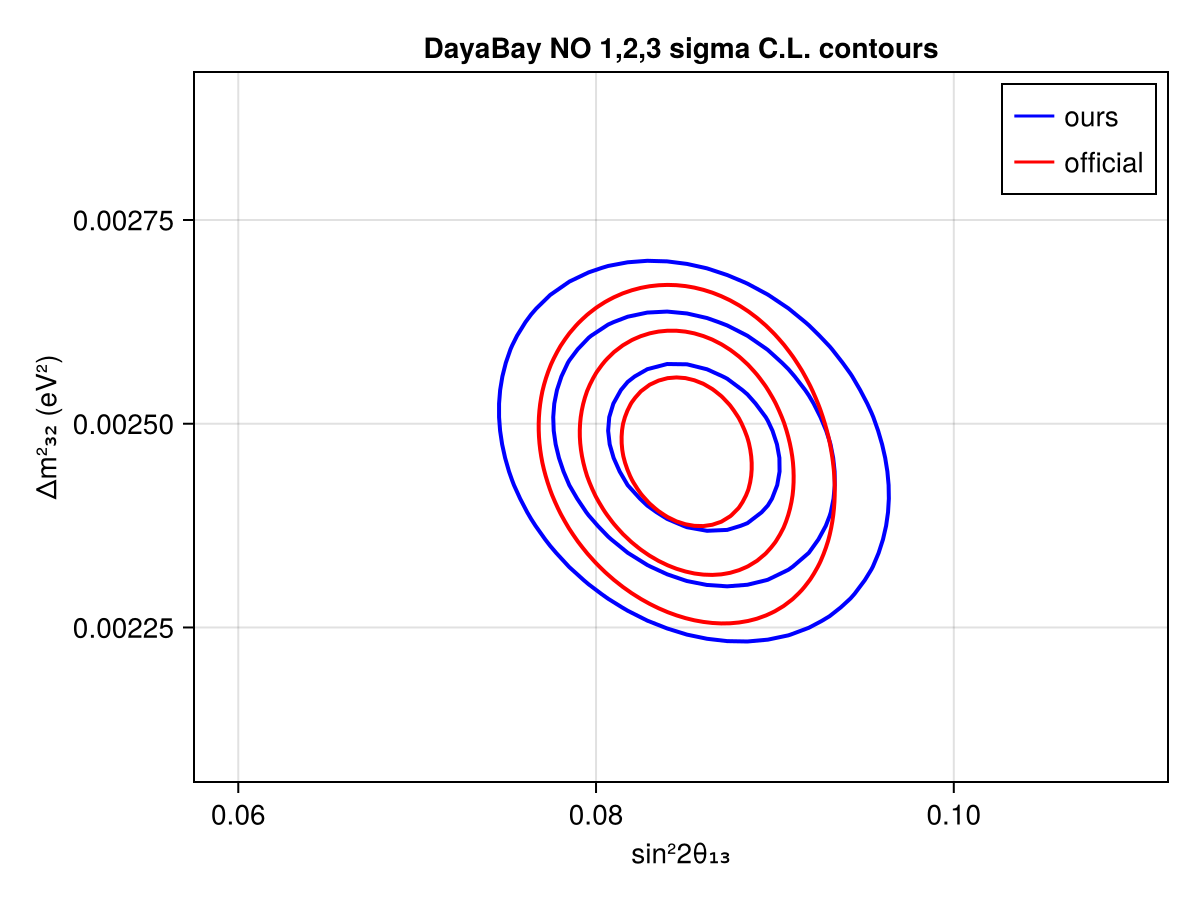
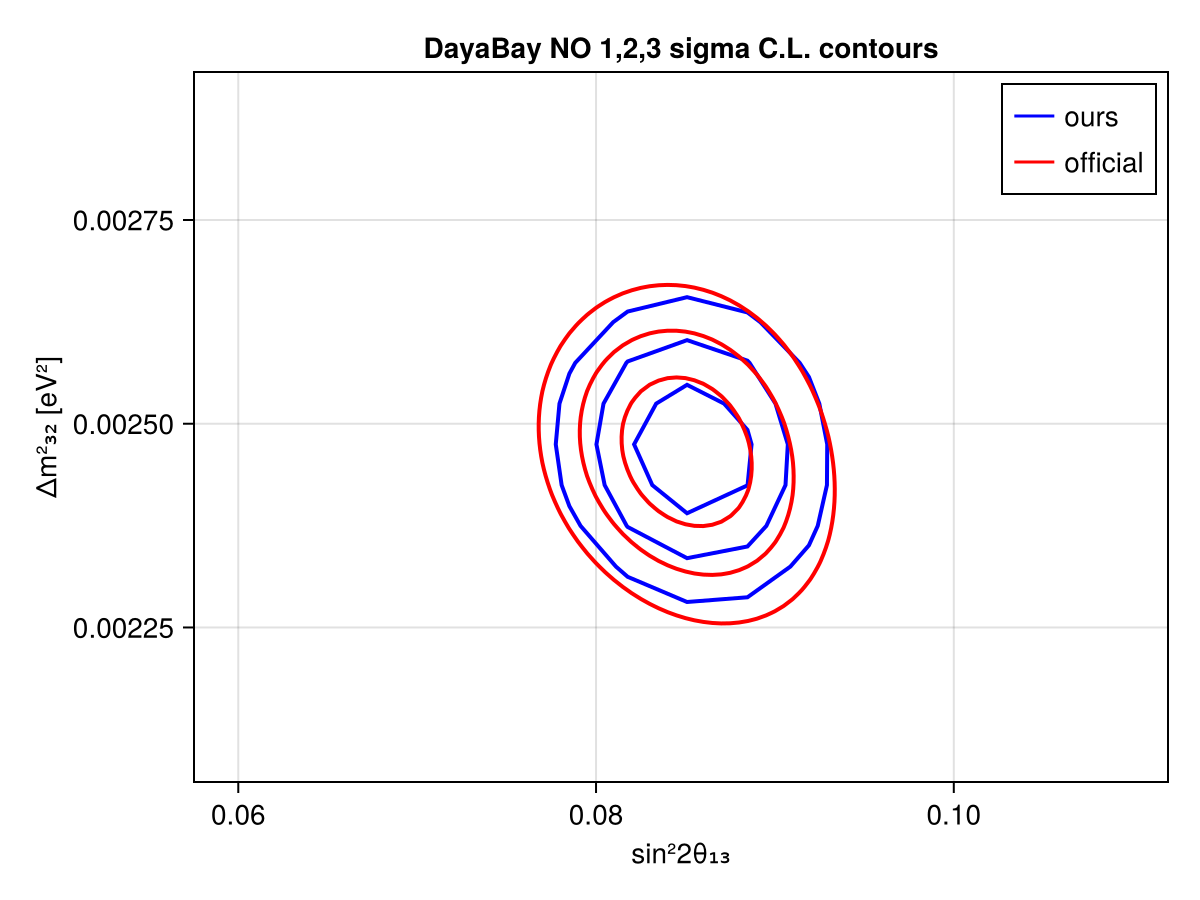
Update dayabay gallery entry (#23)
* Update dayabay-theta13.en.md

* update result contours

* Update dayabay-theta13.en.md

---------

diff --git a/docs/gallery/neutrino-oscillations/dayabay-theta13.en.md b/docs/gallery/neutrino-oscillations/dayabay-theta13.en.md
@@ -6,9 +6,9 @@ analysis_profile:
   note: "Profile estimates are retained for comparison. The reported 3158-day benchmark differs; costs depend on scan size and whether setup is included."
   metrics:
     forward_model_core_hours: 0.000004
-    parameter_count: 6
-    analysis_core_hours: 0.006
-    data_input_mb: 1
+    parameter_count: 180
+    analysis_core_hours: 40
+    data_input_mb: 10
     external_frameworks: 1
     software_stack_lines: 16000
     citation_count: 143
@@ -35,8 +35,10 @@ are described in the reproduction evidence.
 
 - Reactor fluxes and baselines
 - oscillation probability and interaction cross sections
-- detector response, prompt-energy spectra and backgrounds
+- detector response, prompt-energy spectra and background shapes
 - nuisance treatment and covariance matrices.
+
+Full data set available on zenodo: [DOI:10.5281/zenodo.17587228](https://doi.org/10.5281/zenodo.17587228).
 
 ## Reproduction objective and evidence
 
@@ -44,9 +46,9 @@ are described in the reproduction evidence.
 
 **Scope and limitations:** The reported best fit agrees closely with the publication, but reproduced contours are about 10% wider. The report discusses the covariance treatment. Independent audit pending.
 
-## Which dataset is reproduced?
+## Which analysis is reproduced?
 
-The historical publication below is the 2012 observation. The reported contour comparison instead targets the [3158-day measurement, arXiv:2211.14988](https://arxiv.org/abs/2211.14988), using Newtrinos.jl commit `ad55e3bb71a903d0cdd2a2391c10c410cb0e0d20`. The reproduction report describes a two-dimensional grid scan with covariance-based systematics; other parameters remain fixed. Agreement with this release is not a rerun of the 2012 analysis.
+The reported contour comparison targets the [3158-day measurement, arXiv:2211.14988](https://arxiv.org/abs/2211.14988), using Newtrinos.jl. The reproduction report describes a two-dimensional grid scan with approximately 175 nuisance parameters.
 
 ## Figures
 
@@ -60,6 +62,6 @@ The historical publication below is the 2012 observation. The reported contour c
 
 ## Publications
 
-- **DayaBay:2012fng** (2012) · [DOI: 10.1103/PhysRevLett.108.171803](https://doi.org/10.1103/PhysRevLett.108.171803) · [arXiv:1203.1669](https://arxiv.org/abs/1203.1669)
+- **DayaBay:2022** (2022) · [DOI: 10.1103/PhysRevLett.130.161802](https://doi.org/10.1103/PhysRevLett.130.161802)
 
 [Back to model gallery](../index.md)
